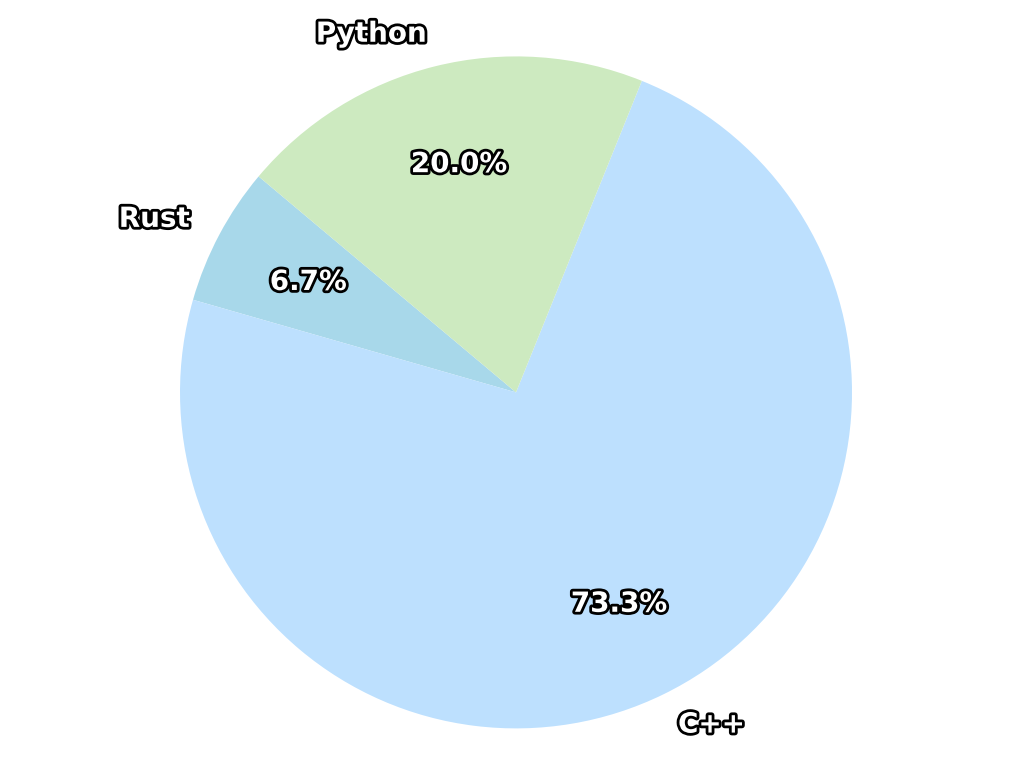
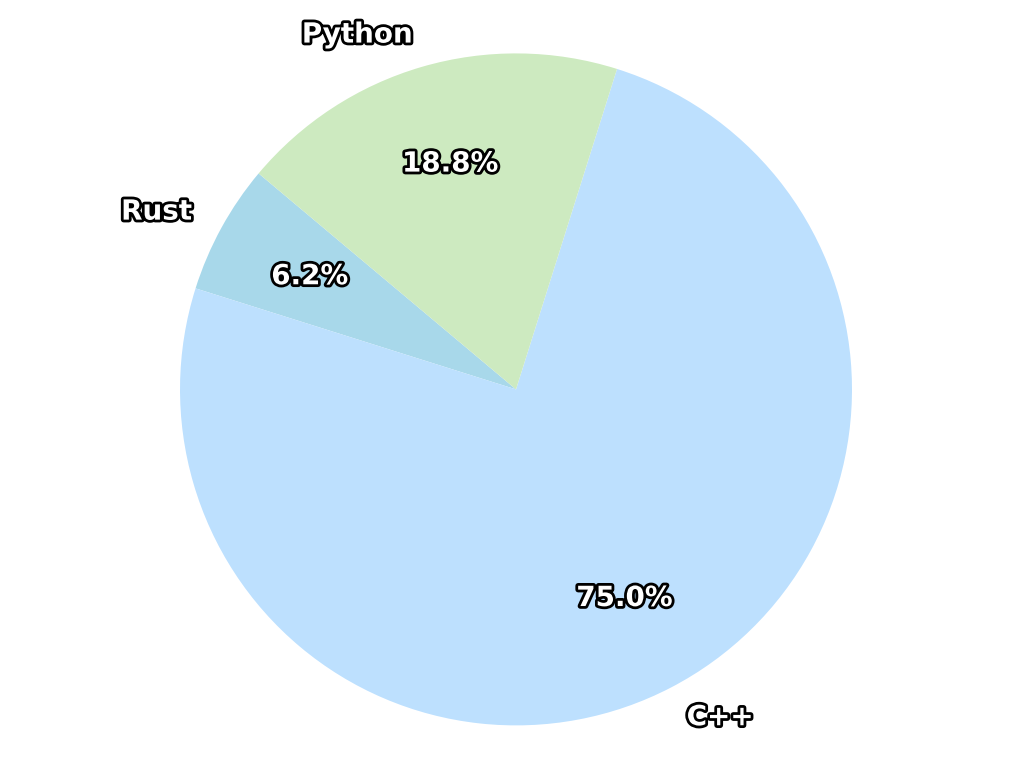
chore: auto-update README [skip ci]

diff --git a/README.md b/README.md
@@ -1,14 +1,14 @@
 # LeetCode Daily Grind
 
-- **Total unique problems:** 15
-- **Current streak:** 8 days
-- **Longest streak:** 8 days
-- **Most recent attempt:** 2025-08-31
+- **Total unique problems:** 16
+- **Current streak:** 9 days
+- **Longest streak:** 9 days
+- **Most recent attempt:** 2025-09-01
 
 ## 🎮 Level & XP
 - **Level:** 2  
-- **XP:** 250 / 300  
-- [████████████░░░░░░░░░░░░] 50%
+- **XP:** 270 / 300  
+- [█████████████████░░░░░░░] 70%
 
 
 ## 📆 Last 12 Months — Activity Heatmap
@@ -43,6 +43,7 @@
 ## 📜 All Solved Exercises
 | Date | Problem | Language | Solution |
 |------|---------|----------|----------|
+| 2025-09-01 | [1792 Maximum Average Pass Ratio](https://leetcode.com/problems/maximum-average-pass-ratio/description) | C++ | [📄](cpp/1792.maximum_average_pass_ratio.cpp) |
 | 2025-08-31 | [3 Longest Substring Without Repeating Characters](https://leetcode.com/problems/longest-substring-without-repeating-characters/description) | Python | [📄](py/3.longest_substring_without_repeating_characters.py) |
 | 2025-08-30 | [36 Valid Sudoku](https://leetcode.com/problems/valid-sudoku/description/) | C++ | [📄](cpp/36.valid_sudoku.cpp) |
 | 2025-08-29 | [3021 Alice And Bob Playing Flower Game](https://leetcode.com/problems/alice-and-bob-playing-flower-game/description/) | C++ | [📄](cpp/3021.alice_and_bob_playing_flower_game.cpp) |
